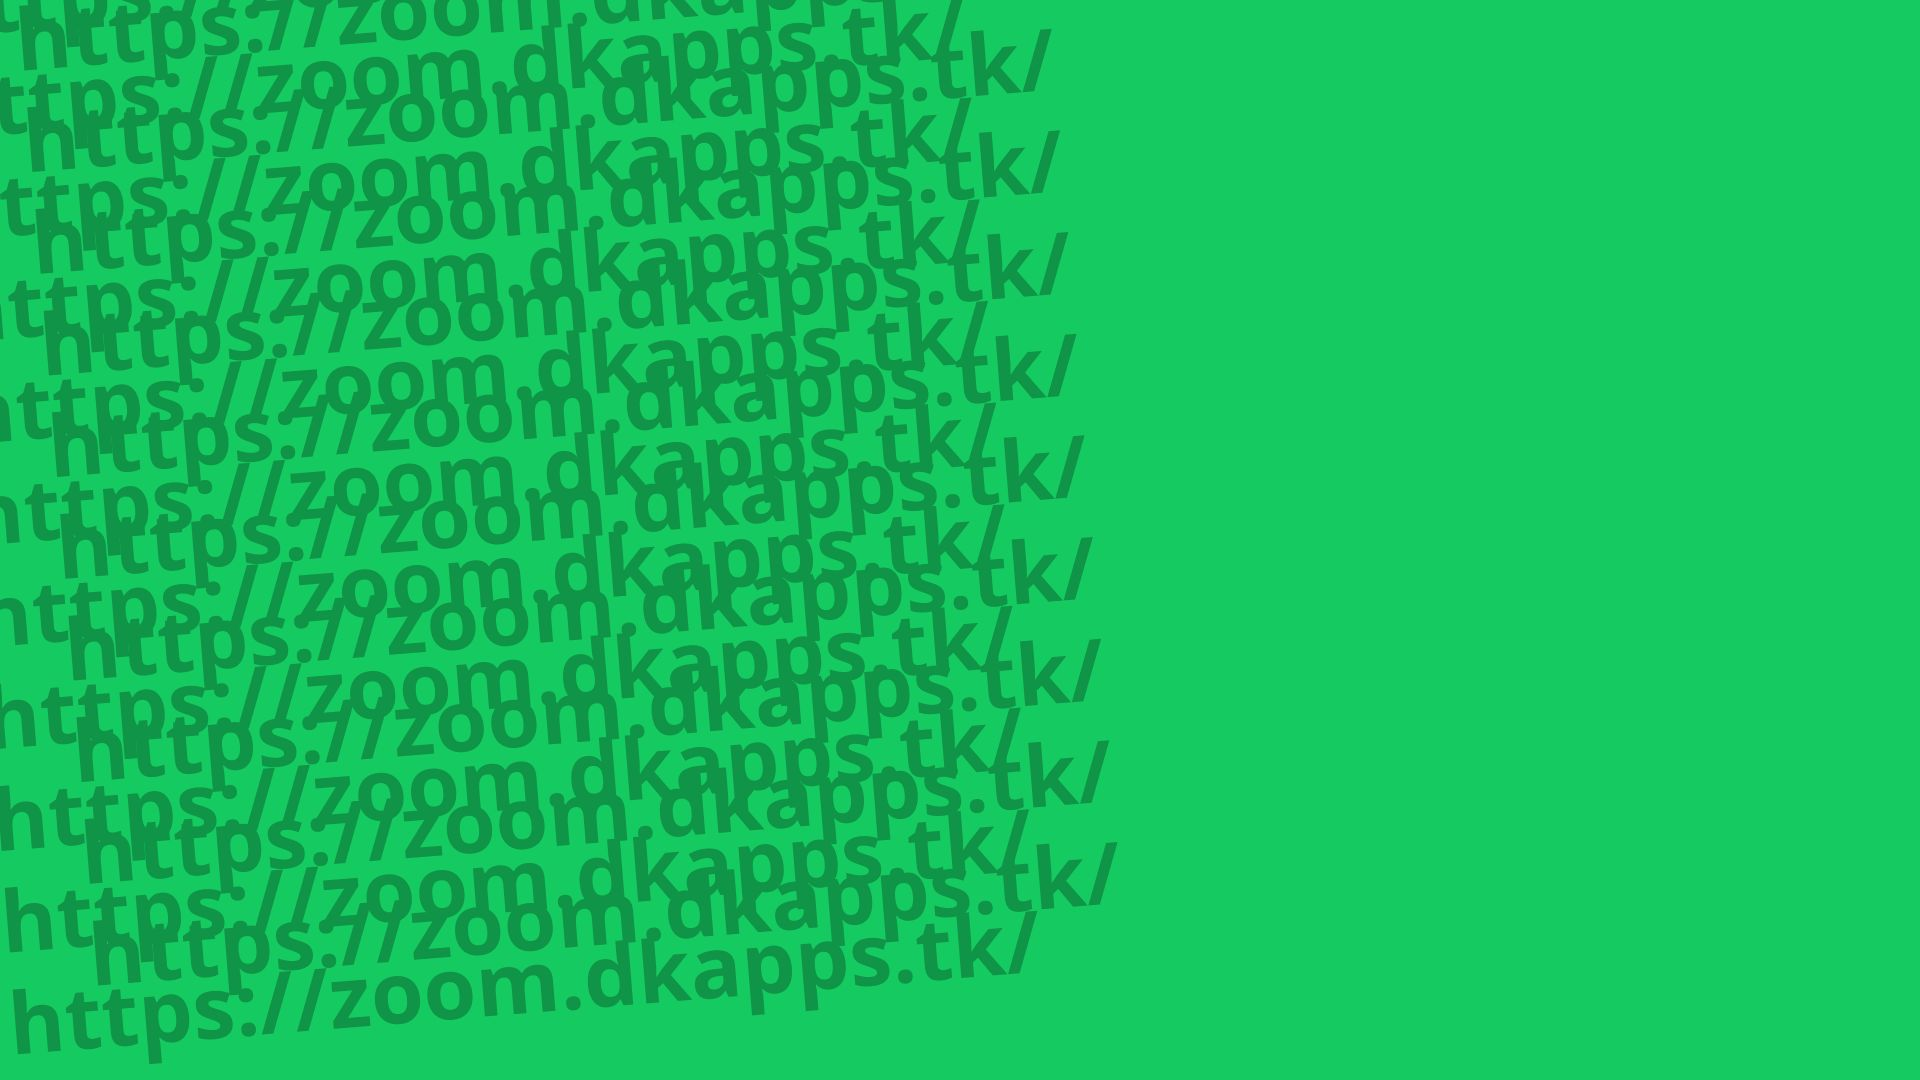
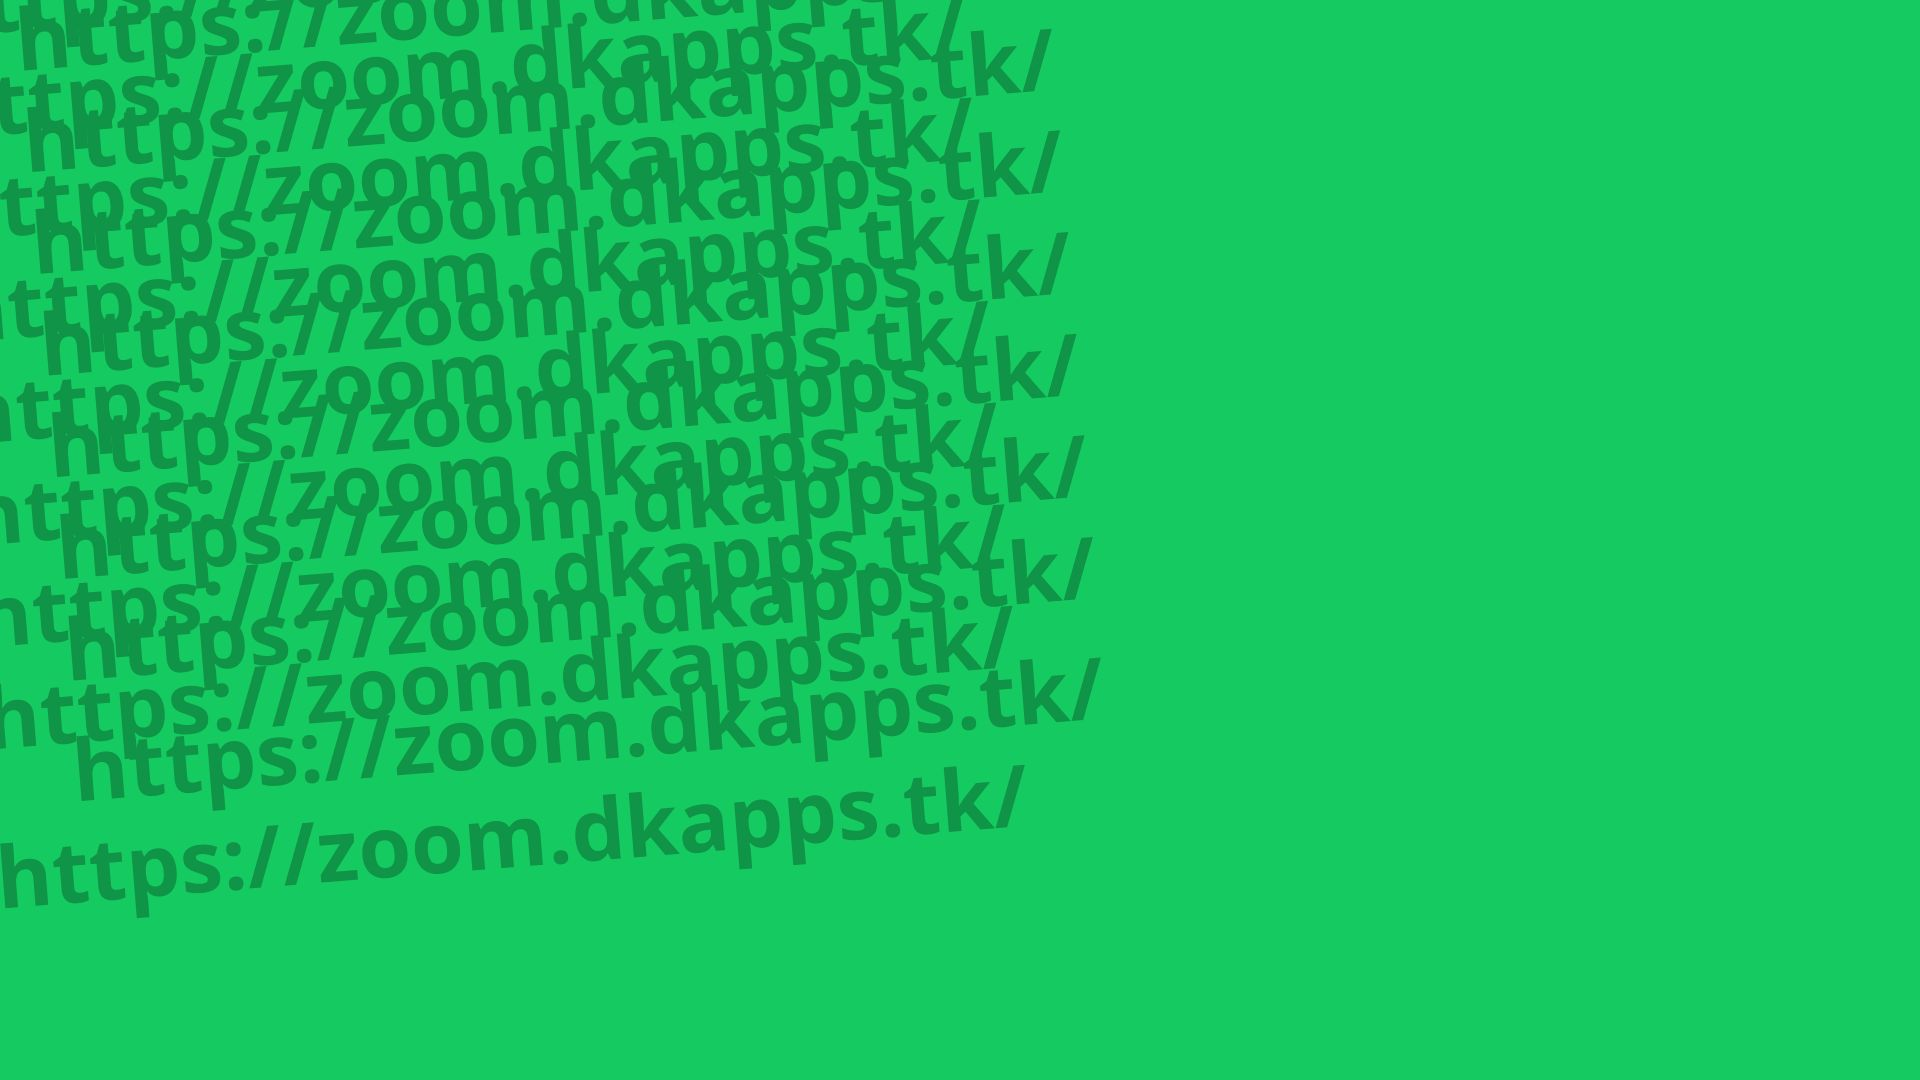
Second Page
-Added second page
-Reformatted initial page
-Cleaned up code

Changed region(s): [[0.0, 0.5806, 0.5938, 0.9778]]

diff --git a/main.js b/main.js
@@ -1,0 +1,97 @@
+import React, {Component} from 'react'
+import {StyleSheet, ImageBackground, View, Text, SafeAreaView} from 'react-native';
+import {Shot} from './elements/image';
+import  {Download}  from './elements/download';
+import  {MainText}  from './elements/text';
+
+
+
+export class Main extends Component{
+
+    render() {
+        return(
+            <>    
+            <ImageBackground source={require('../assets/ZS1.jpg')} resizeMode="cover" style={styles.background1}>
+                <SafeAreaView style={{flex:1}}>
+                    <View style={styles.bg1format}>
+                        <SafeAreaView style={styles.bg1main}>
+                            <View style={styles.videoview}>                           
+                                {/*TODO: Replace Shot with video player */}                          
+                                    <Shot/>                                                   
+                            </View>
+                            <View style={styles.textview}>
+                                <View style={{flex:1}}/>                          
+                                <View style={styles.textalign}>                                                                                                                                   
+                                    <MainText/>
+                                    <Download/>                                                                         
+                                </View>
+                            </View>                                                                                                    
+                        </SafeAreaView>
+                        <View style={{flex:1}}>
+                            <Text style={styles.arrow}>
+                            ⇣
+                            </Text>
+                        </View>                       
+                    </View>                        
+                    <View style={{flex:1}}/>
+                </SafeAreaView>                    
+            </ImageBackground> 
+
+            <ImageBackground source={require('../assets/ZS2.png')} resizeMode="contain" style={styles.background2}>     
+            </ImageBackground>
+
+       
+             
+            </>
+        );
+    }
+}
+
+const styles = StyleSheet.create({
+    background1: {
+        //TODO: make height proportionate to window height
+        height: 700,
+        justifyContent: "center",
+    },
+    background2:{
+        height: 700, 
+        justifyContent: "center",
+    },
+    //background 1 styles
+    bg1format:{
+        flex:5, 
+        flexDirection: 'column', 
+        margin: 40,
+    },
+    bg1main: {
+        flex: 10,
+        flexDirection: "row",
+    },
+    videoview:{//temp photo view
+        flex: 1, 
+        alignContent: 'center', 
+        paddingTop: 50,
+    },
+    textview: {
+        flex: 1, 
+        flexDirection: 'row',
+    },
+    textalign: {
+        flex: 6, 
+        alignItems: 'center', 
+        paddingVertical: 50,
+    },
+    arrow: {
+        alignSelf: 'center',
+        fontSize: 90, 
+        color: 'white'
+    },
+    //background 2 styles
+    bg2: {
+        flex: 1,       
+        justifyContent: "space-between",
+        padding: 20,
+        margin: 10,
+    },
+
+  });

diff --git a/elements/text.js b/elements/text.js
@@ -1,60 +1,26 @@
 import React, { Component } from 'react'
 import { StyleSheet, Text, View } from 'react-native';
-import  {Download}  from './download';
-import {Shot} from './image';
 
-
-export class BodyText extends Component{
+export class MainText extends Component{
     render() {
         return(
             <>
-            <View>
-                <Text style={styles.text}>
-                    Lorem ipsum dolor sit amet, consectetur adipiscing elit, sed do
-                    eiusmod tempor incididunt ut labore et dolore magna aliqua. Ut enim ad
-                    minim veniam, quis nostrud exercitation ullamco laboris nisi ut
-                    aliquip ex ea commodo consequat. Duis aute irure dolor in
-                    reprehenderit in voluptate velit esse cillum dolore eu fugiat nulla
-                    pariatur. Excepteur sint occaecat cupidatat non proident, sunt in
-                    culpa qui officia deserunt mollit anim id est laborum.
+            <Text style={styles.title}>
+                ⊕ 乙oom ડniper
+            </Text>
+            <View style={{flex:1}}/>
+            <View style={styles.listview}>
+                <Text style={styles.list}>
+                    - Never miss a meeting
                 </Text>
-            
-                {/*<View style={{flex:1}}></View>
-
-                <View style={{flex:4, justifyContent:'center', alignItems: 'flex-start'}}>
-                    <Text style={styles.title}>
-                        Zoom Sniper
-                    </Text>
-                    <Text style={styles.list}>
-                        - Never miss a meeting
-                    </Text>
-                    <Text style={styles.list}>
-                        - Organize links
-                    </Text>
-                    <Text style={styles.list}>
-                        - Wow
-                    </Text>
-
-                    <View style={{height:90}}></View>
-        
-                    <Download/>
-                </View>
-        */}
-
-                {/*<View style={{flex:10}}>
-                    <View style={{height:40}}></View>
-                    <Shot/>
-                </View>
-    */}
-                
-
-
-
+                <Text style={styles.list}>
+                    - Organize links
+                </Text>
+                <Text style={styles.list}>
+                    - Wow
+                </Text>
             </View>
-            
-
-           
-            
+            <View style={{flex:3}}/>  
             </>
         );
         
@@ -63,17 +29,17 @@ export class BodyText extends Component{
 
 var styles = StyleSheet.create({
     title:{
-        //flex: 1,
-        fontSize: 40,
-        color: 'white',
-        height: 100
+        flex: 1,
+        fontSize: 65,
+         fontWeight: "bold",
+    },
+    listview: {
+        flex: 8, 
+        justifyContent:'space-evenly',
     },
     list: {
-        //flex: 1,
-        fontSize: 30,
-        color: 'white'
-
-
-    }
+        fontSize: 28, 
+        fontWeight: "bold",
+    },
     
 });

diff --git a/App.js b/App.js
@@ -1,5 +1,5 @@
 import {StyleSheet, SafeAreaView, View, ScrollView, Text} from 'react-native';
-import  {Main}  from './elements/main';
+import  {Main}  from './main';
 import  {BodyText}  from './elements/text';
 
 export default function App() {
@@ -16,5 +16,6 @@ export default function App() {
 const styles = StyleSheet.create({
   container: {
     flex: 1,
+    backgroundColor: '#15cb61',
   },
 });
